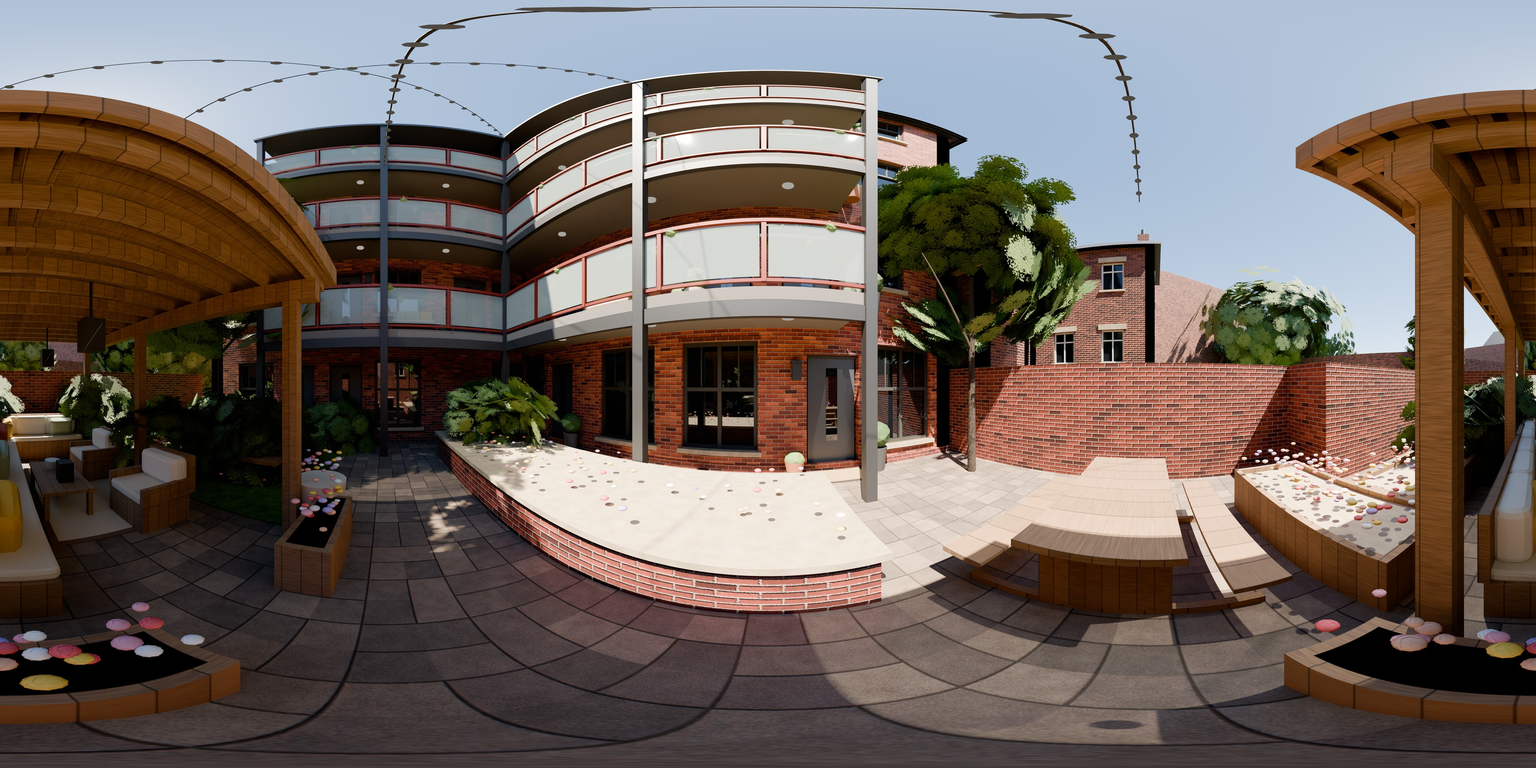
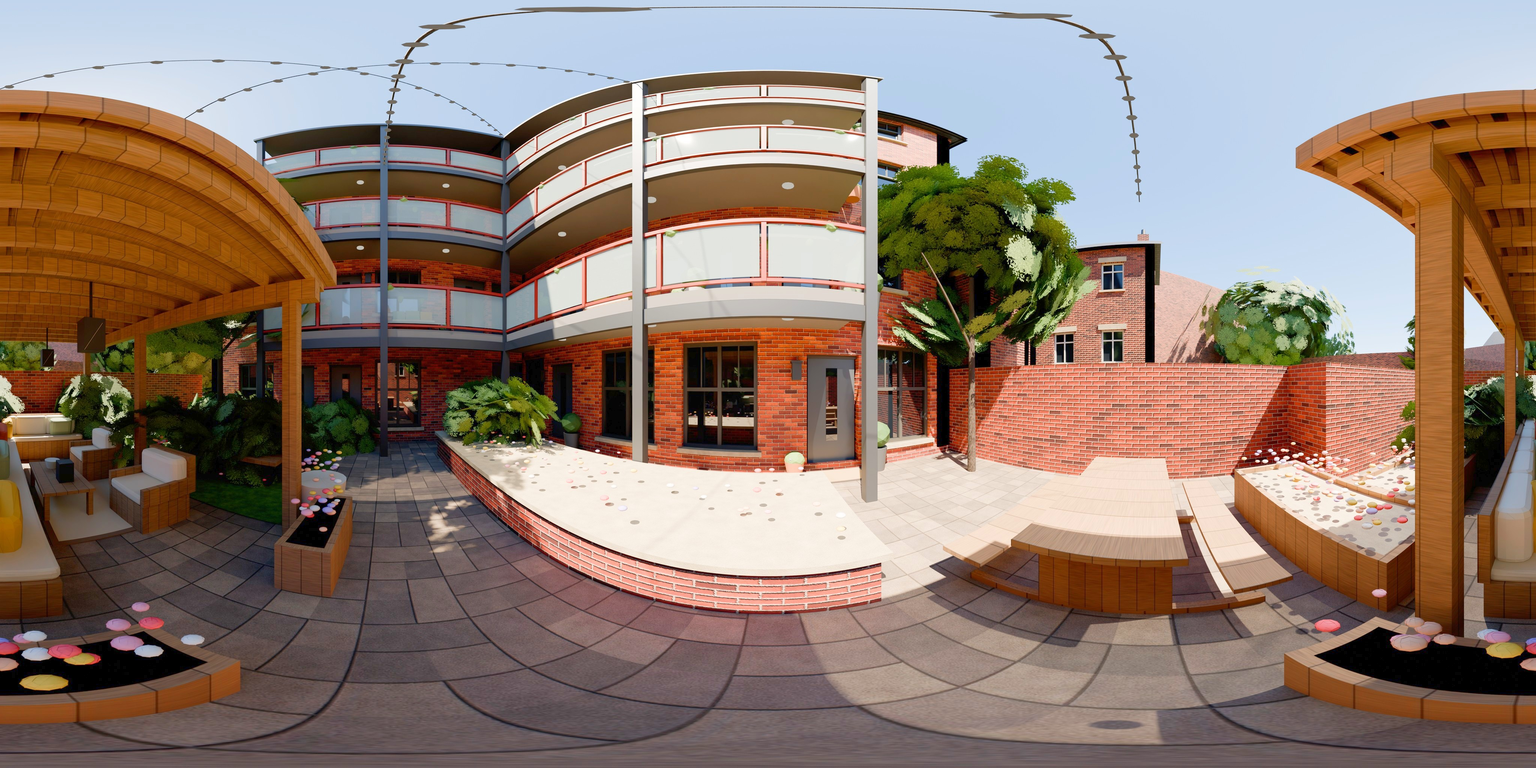
Charter House courtyard 360: brighter (it was the darkest of the street 360s), opens lower and a little wider
Claude-Session: https://claude.ai/code/session_01Sctq4rtxs3am8H16PnnxYg

diff --git a/3d/js/main.js b/3d/js/main.js
@@ -2185,7 +2185,7 @@ function buildSpots() {
       { id: 'brewery', name: 'Robinsons Brewery', at: eyeAt(-8.2, 33.6), look: V3(-30, 8, 50), note: 'Round the corner from Charter House: Robinsons’ Unicorn Brewery, brewing in Stockport since 1849.', glide: false },
       { id: 'smg', name: 'Outside St Mary’s Gate', at: eyeAt(-21, -2), look: V3(4, 6.5, 8),   // on the Churchgate pavement in front of it (the old point, z 3, was inside the building since it moved back on 6 Nov)
       note: 'Brik sold every apartment in St Mary’s Gate. It is fully let, above its rent forecast.' },
-      { id: 'courtyard', name: 'Residents’ courtyard', at: V3(18.6, 1.6, 15.4), look: V3(12, 4.8, 11.4), note: 'The private courtyard, with the walkways to every front door.', glide: false },
+      { id: 'courtyard', name: 'Residents’ courtyard', at: V3(18.6, 1.6, 15.4), look: V3(12, 2.3, 11.4), fovAdd: 10, note: 'The private courtyard, with the walkways to every front door.', glide: false },
       { id: 'walkway', name: 'Top-floor walkway', at: V3(20.2, 3 * F + 1.65, 11.8), look: V3(12.5, 3 * F + 1.3, 11.9), note: 'Townhouse-style front doors off an open walkway, not a hotel corridor.', glide: false },
       { id: 'church', name: 'Down Churchgate from St Mary’s', at: eyeAt(-95, -7.4), look: V3(8, 7, 2), note: 'Stockport’s oldest church behind you, Charter House at the end of the street.', glide: false },
       { id: 'market', name: 'Market Place', at: eyeAt(-127, -13), look: V3(-152, 5.5, -9), note: 'The 1861 Market Hall, two minutes’ walk from your front door.', glide: false },
@@ -2276,7 +2276,7 @@ function goSpot(i, faceAt = null) {
   const sib = sp.pano ? SPOTS.map((x, j) => [x, j]).filter(([x]) => x.pano && x.plot === sp.plot) : [];
   const roomActs = sib.length > 1 ? sib.map(([x, j]) => `<button class="btn ${j === i ? 'brass' : 'ghost'}" data-tact="room" data-spot="${j}">${(x.room || x.name).replace(/^./, ch => ch.toUpperCase())}</button>`).join('') : '';
   tourCaption(sp.pano ? (sp.plot != null ? `Apartment ${sp.plot} · photoreal 360°` : `Around ${IS_PH ? 'The Print House' : 'Charter House'} · photoreal 360°`) : `360° walk-around · ${i + 1} of ${SPOTS.length}`, sp.name, sp.note, roomActs);
-  if (sp.pano) { tour.walk([{ to: sp.at, cut: true, look: faceAt || sp.look }], {}); setTimeout(() => { showPano(sp.pano, sp.hd ? sp.pano.replace('.jpg', '_8k.jpg') : null); tour.setFov(innerWidth < innerHeight ? 100 : 92); }, 400); }
+  if (sp.pano) { tour.walk([{ to: sp.at, cut: true, look: faceAt || sp.look }], {}); setTimeout(() => { showPano(sp.pano, sp.hd ? sp.pano.replace('.jpg', '_8k.jpg') : null); tour.setFov((innerWidth < innerHeight ? 100 : 92) + (sp.fovAdd || 0)); }, 400); }   // the courtyard opens a little wider and lower (it is tight)
   else { showPano(null); tour.walk([near ? { to: sp.at, speed: 6, look: sp.look } : { to: sp.at, cut: true, look: sp.look }]); }
   stillFrames = Math.max(stillFrames, 4);
 }
